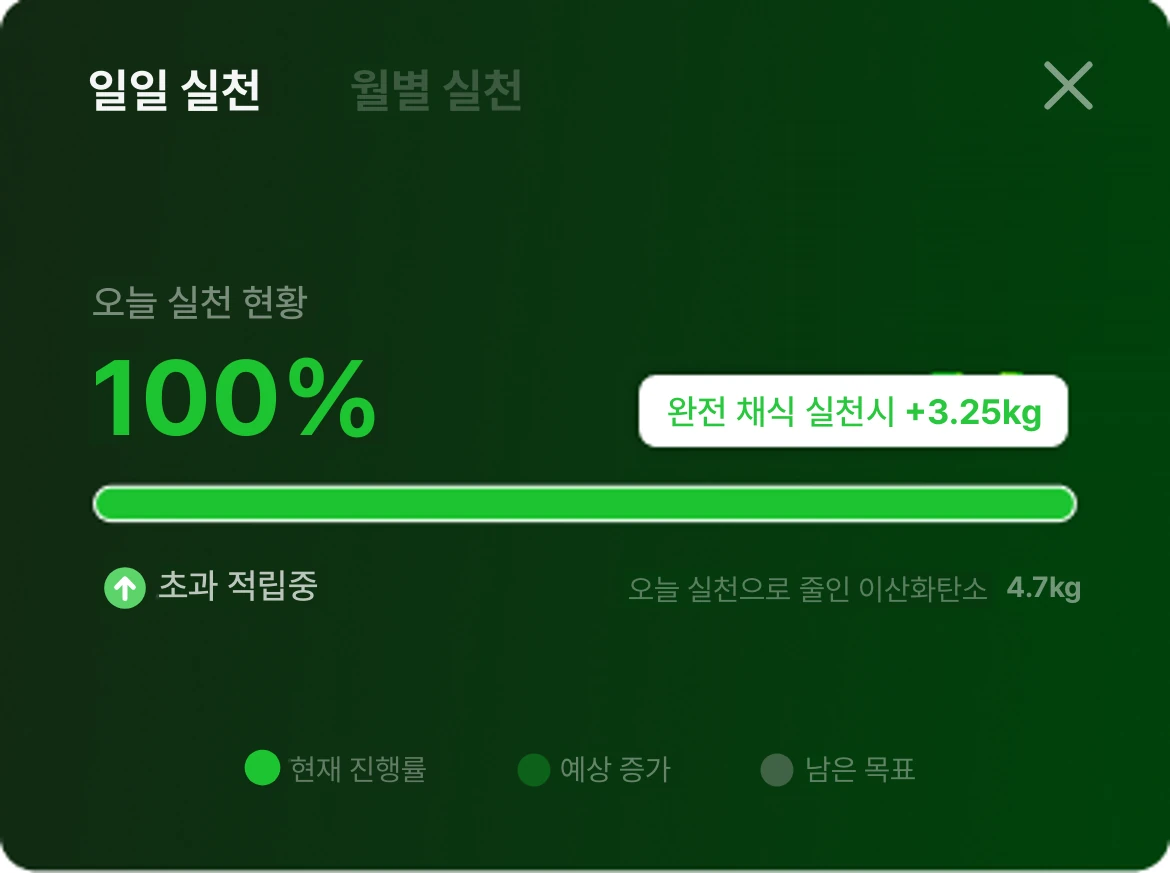
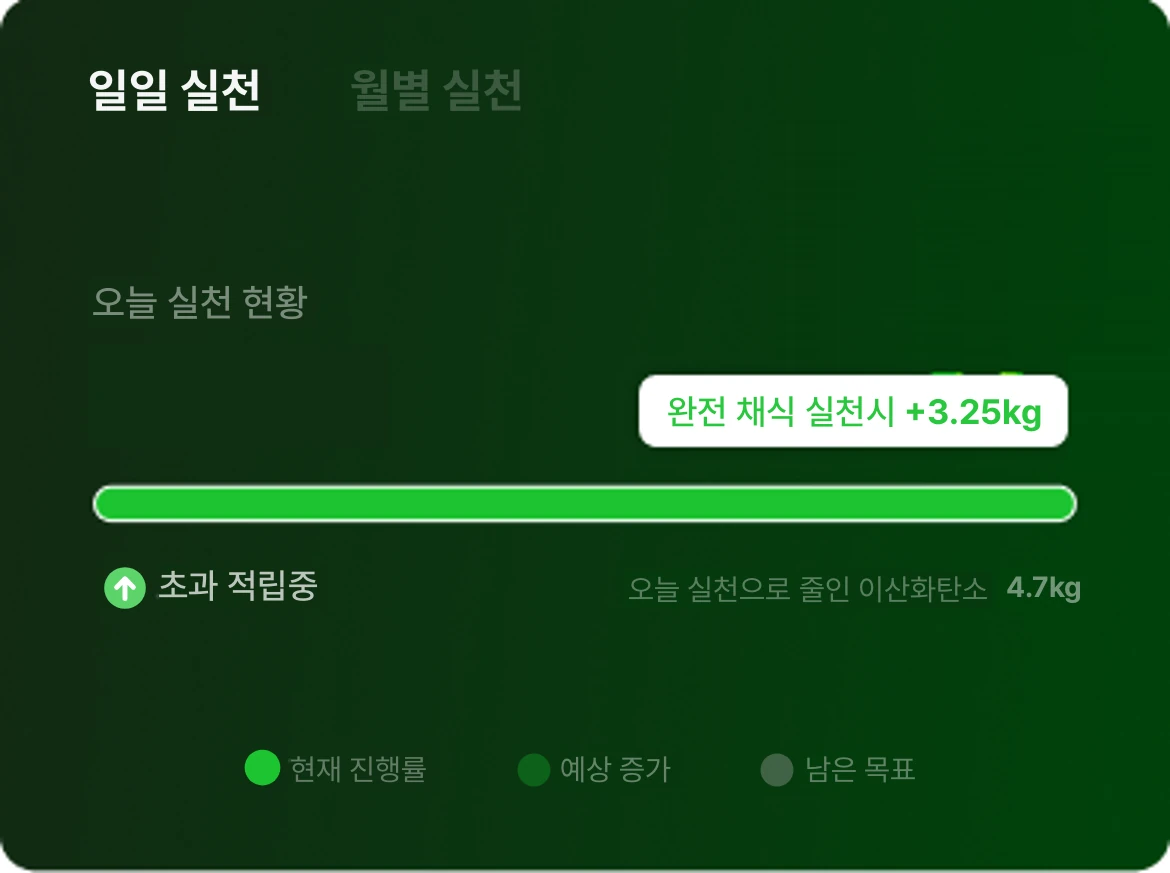
DFGDGF

Changed region(s): [[0.0615, 0.4021, 0.3385, 0.4948], [0.8923, 0.0619, 0.9538, 0.1237]]

diff --git a/js/app.js b/js/app.js
@@ -663,7 +663,7 @@ function renderSheet(){
      if(qrActivities.has(sheet.activity)){const qrv=img('assets/ui/qr_button_exact.png','daily-route-qr-visual');body.append(qrv);routeQrVisualRef=qrv};
      content.append(body);requestAnimationFrame(()=>addDailyFun(body,sheet.activity))
    }else{
-     content.append(img('assets/sheets/monthly_clean.png','sheet-img'));
+     content.append(img('assets/sheets/monthly_clean.png','sheet-img'));hqMonthly(content);
      buildMonthlyRings()
    }
  }
@@ -1872,9 +1872,9 @@ document.addEventListener('pointerdown',e=>{
  const canBack=()=>history.length>0&&!atStart()&&view.type!=='home'&&!overlay.querySelector('.modal-dim,.x-compose,.x-done,.guide');
  document.addEventListener('pointerdown',e=>{const r=W0();edge=(e.clientX-r.left)<24*(r.width/390)&&canBack();sx=e.clientX;sy=e.clientY;drag=false;dx=0},true);
  document.addEventListener('pointermove',e=>{if(!edge)return;const s=W0().width/390;const mx=(e.clientX-sx)/s,my=Math.abs(e.clientY-sy)/s;
-   if(!drag){if(mx>8&&mx>my*1.3){drag=true;stage.classList.add('x-swiping')}else if(my>12){edge=false;return}else return}
+   if(!drag){if(mx>8&&mx>my*1.3){drag=true;stage.classList.add('x-swiping');phone.classList.add('x-swipe-bg')}else if(my>12){edge=false;return}else return}
    dx=Math.max(0,mx);stage.style.transform=`translateX(${dx}px)`;phone.style.setProperty('--swipe',Math.min(1,dx/390));e.preventDefault()},{capture:true,passive:false});
- const end=e=>{if(!edge)return;edge=false;if(!drag)return;drag=false;stage.classList.remove('x-swiping');
+ const end=e=>{if(!edge)return;edge=false;if(!drag)return;drag=false;stage.classList.remove('x-swiping');setTimeout(()=>phone.classList.remove('x-swipe-bg'),380);
    const go=dx>110;
    if(go){buzz(6);window.__swipeFrom=dx;stage.style.transform='';back();window.__swipeFrom=0}
    else{stage.style.transition='transform .22s cubic-bezier(.2,.8,.2,1)';stage.style.transform='';setTimeout(()=>stage.style.transition='',240)}};
@@ -1992,6 +1992,9 @@ ICON.close2='<path d="M6 6l12 12M18 6 6 18" stroke="currentColor" stroke-width="
  _r5();
  if(!cover)return;
  phone.insertBefore(cover,stage.nextSibling);
+ /* the old screen sits above the overlay too, so bubbles/guides of the new screen are revealed together with it;
+    the tab bar strip is left uncovered because the persistent tab bar animates on its own */
+ if(cover.querySelector('.unified-nav-hit-layer')&&stage.querySelector('.unified-nav-hit-layer'))cover.style.clipPath='inset(0 0 80px 0)';
  const pending=[...stage.querySelectorAll('img')].filter(i=>!i.complete||!i.naturalWidth);
  const ready=Promise.race([Promise.all(pending.map(i=>i.decode?i.decode().catch(()=>{}):Promise.resolve())),new Promise(r=>setTimeout(r,450))]);
  ready.then(()=>{cover.classList.add('x-cover-out');setTimeout(()=>cover.remove(),180)});
@@ -2135,6 +2138,45 @@ openTeamChatOverlay=function(){
  const fin=e=>{if(e.pointerId!==sid)return;sid=null;const dx=(sl-s0)/(window.__sx||1);if(dx>90)closeTeamChatOverlay(page);else page.style.transform='translate3d(0,0,0)'};
  page.addEventListener('pointerup',fin);page.addEventListener('pointercancel',fin);
 };
+
+/* ===================== practice sheet header interactions ===================== */
+{const _hd=hqDaily;hqDaily=function(body,key){_hd(body,key);
+ /* live percentage that counts up with the progress bar */
+ const pct=el('div','x-dh-pct');pct.innerHTML='<b>0</b><i>%</i>';Object.assign(pct.style,{left:(24/390*100)+'%',top:(108/687*100)+'%'});
+ const bar=el('div','x-dh-bar');Object.assign(bar.style,{left:(30/390*100)+'%',top:(160.5/687*100)+'%',width:(330/390*100)+'%',height:(15/687*100)+'%'});bar.innerHTML='<i></i>';
+ body.append(pct,bar);
+ const num=pct.querySelector('b'),fill=bar.querySelector('i');const target=100,dur=reduceMotion?0:950,t0=performance.now();
+ requestAnimationFrame(()=>fill.style.width=target+'%');
+ const step=now=>{const k=dur?Math.min(1,(now-t0)/dur):1;const e=1-Math.pow(1-k,3);num.textContent=Math.round(target*e);if(k<1)requestAnimationFrame(step);else pct.classList.add('done')};requestAnimationFrame(step);
+ /* mascot: gentle float, hop when tapped; chip pops in */
+ const m=body.querySelector('.hq-daily-mascot');if(m){m.classList.add('x-float');const hit=el('button','x-dh-mhit');hit.type='button';hit.setAttribute('aria-label','캐릭터');
+   const b=m.style;Object.assign(hit.style,{left:b.left,top:b.top,width:b.width,height:b.height});hit.addEventListener('click',e=>{e.stopPropagation();m.classList.remove('x-hop');void m.offsetWidth;m.classList.add('x-hop');buzz(8)});body.append(hit)}
+ body.querySelector('.hq-chipcopy')?.classList.add('x-chip-pop');
+}}
+function hqMonthly(content){
+ const cards=[['전기세','6,000원 절약 목표를 달성했어요.','매주 월요일 +0.86kg이 자동으로 지급돼요.',true],['가스비','5,000원 절약 목표를 달성했어요.','매주 월요일 +1.12kg이 자동으로 지급돼요.',true],['수도세','3,000원 절약 목표에 조금 못 미쳤어요.','이번 달에 다시 도전해 보세요. 달성하면 +0.28kg이 지급돼요.',false]];
+ const X=[23,139,255],Wd=113,Y=105,Hh=114;
+ const sweep=el('div','x-mo-sweep');Object.assign(sweep.style,{left:(22/390*100)+'%',top:(Y/688*100)+'%',width:(346/390*100)+'%',height:(Hh/688*100)+'%'});content.append(sweep);
+ cards.forEach(([t,a,b,ok],i)=>{
+   const h=el('button','x-mo-card');h.type='button';h.setAttribute('aria-label',t+' 자세히');Object.assign(h.style,{left:(X[i]/390*100)+'%',top:(Y/688*100)+'%',width:(Wd/390*100)+'%',height:(Hh/688*100)+'%'});
+   const ring=el('span','x-mo-stamp'+(ok?'':' fail'));ring.style.animationDelay=(0.35+i*0.12)+'s';h.append(ring);
+   h.addEventListener('click',()=>{buzz(8);infoBox(`지난달 ${t}`,`<p><b>${a}</b></p><p>${b}</p>`,'확인')});content.append(h)});
+ const glow=el('div','x-mo-glow');Object.assign(glow.style,{left:(78/390*100)+'%',top:(238/688*100)+'%',width:(234/390*100)+'%',height:(30/688*100)+'%'});content.append(glow);
+}
+
+/* overlay extras (e.g. the home carbon bubble) wait until the new screen's images are ready, so everything appears together */
+{const _r9=render;render=function(){_r9();
+ const pending=[...stage.querySelectorAll('img')].filter(i=>!i.complete||!i.naturalWidth);
+ if(!pending.length){overlay.classList.remove('x-hold');return}
+ overlay.classList.add('x-hold');
+ Promise.race([Promise.all(pending.map(i=>i.decode?i.decode().catch(()=>{}):Promise.resolve())),new Promise(r=>setTimeout(r,500))]).then(()=>requestAnimationFrame(()=>overlay.classList.remove('x-hold')));
+}}
+
+/* practice sheet: close X is live and only shown while the sheet is open */
+{const upd=()=>{stage.querySelectorAll('.bottom-sheet').forEach(s=>{
+   let x=s.querySelector(':scope>.x-sheet-x');if(!x){x=el('div','x-sheet-x');x.innerHTML='<svg viewBox="0 0 24 24"><path d="M5.5 5.5l13 13M18.5 5.5l-13 13" stroke="currentColor" stroke-width="2" stroke-linecap="round" fill="none"/></svg>';s.appendChild(x)}
+   const top=parseFloat(s.style.top)/100*844;const open=top<690;if(x.classList.contains('show')!==open)x.classList.toggle('show',open)})};
+ new MutationObserver(upd).observe(stage,{subtree:true,childList:true,attributes:true,attributeFilter:['style']});}
 
 render();
 })();

diff --git a/sw.js b/sw.js
@@ -1,4 +1,4 @@
-const CACHE='greensweet-v68-35';
+const CACHE='greensweet-v68-41';
 const PRECACHE=["./", "index.html", "css/style.css", "js/app.js", "manifest.webmanifest", "assets/fonts/PretendardSubset.woff2", "icons/icon-192.png", "icons/icon-512.png", "icons/icon-180.png", "icons/favicon.png", "assets/carbon17/base.webp", "assets/carbon21/mascot_297.webp", "assets/carbon21/mascot_298.webp", "assets/carbon21/mascot_299.webp", "assets/carbon21/mascot_300.webp", "assets/carbon21/mascot_301.webp", "assets/carbon21/mascot_319.webp", "assets/coupon_logos/amorepacific.png", "assets/coupon_logos/aromatica.png", "assets/coupon_logos/ikea.png", "assets/coupon_logos/innisfree.png", "assets/coupon_logos/lush.png", "assets/coupon_logos/muji.png", "assets/coupon_logos/musinsa.png", "assets/coupon_logos/oliveyoung.png", "assets/coupon_logos/patagonia.png", "assets/coupon_logos/starbucks.webp", "assets/coupon_logos/tamburins.png", "assets/coupon_logos/thebodyshop.png", "assets/daily_cards/bike_normal.png", "assets/daily_cards/bike_selected.png", "assets/daily_cards/bus_normal.png", "assets/daily_cards/bus_selected.png", "assets/daily_cards/fullveg_normal.png", "assets/daily_cards/fullveg_selected.png", "assets/daily_cards/partial_normal.png", "assets/daily_cards/partial_selected.png", "assets/daily_cards/tumbler_normal.png", "assets/daily_cards/tumbler_selected.png", "assets/daily_cards/walk_normal.png", "assets/daily_cards/walk_selected.png", "assets/daily_headers/bike.webp", "assets/daily_headers/bus.webp", "assets/daily_headers/fullveg.webp", "assets/daily_headers/partial.webp", "assets/daily_headers/tumbler.webp", "assets/daily_headers/walk.webp", "assets/esg/base_all.webp", "assets/esg/base_mine.webp", "assets/esg/base_progress.webp", "assets/fixed/coupon_all_base.png", "assets/fixed/coupon_mine_base.png", "assets/fixed/points_base.webp", "assets/hq/daily_bike.webp", "assets/hq/daily_bus.webp", "assets/hq/daily_fullveg.webp", "assets/hq/daily_partial.webp", "assets/hq/daily_tumbler.webp", "assets/hq/daily_walk.webp", "assets/hq/esg_done_text.png", "assets/hq/esg_mascot.webp", "assets/hq/idea.webp", "assets/hq/team_mascot.webp", "assets/onboarding/bottom.png", "assets/onboarding/content_289.webp", "assets/onboarding/content_290.webp", "assets/onboarding/content_291.webp", "assets/onboarding/content_292.webp", "assets/onboarding/content_293.webp", "assets/onboarding/cta_289.png", "assets/onboarding/cta_290.png", "assets/onboarding/cta_291.png", "assets/onboarding/cta_292.png", "assets/onboarding/cta_293.png", "assets/onboarding/progress_289.png", "assets/onboarding/progress_290.png", "assets/onboarding/progress_291.png", "assets/onboarding/progress_292.png", "assets/onboarding/progress_293.png", "assets/onboarding/top.png", "assets/screens/287.webp", "assets/screens/288.webp", "assets/screens/289.webp", "assets/screens/290.webp", "assets/screens/291.webp", "assets/screens/292.webp", "assets/screens/293.webp", "assets/screens/297.webp", "assets/screens/298.webp", "assets/screens/299.webp", "assets/screens/300.webp", "assets/screens/301.webp", "assets/screens/303.webp", "assets/screens/304.webp", "assets/screens/305.webp", "assets/screens/306.webp", "assets/screens/307.png", "assets/screens/308.webp", "assets/screens/310.webp", "assets/screens/311.webp", "assets/screens/312.webp", "assets/screens/313.webp", "assets/screens/314.webp", "assets/screens/316.webp", "assets/screens/316_home_clean.webp", "assets/screens/317.webp", "assets/screens/318.webp", "assets/screens/319.webp", "assets/screens/320.webp", "assets/screens/321.webp", "assets/screens/322.webp", "assets/screens/331.webp", "assets/screens/333.webp", "assets/screens/334.webp", "assets/screens/335.webp", "assets/screens/336.webp", "assets/screens/337.webp", "assets/screens/338.webp", "assets/screens/339.webp", "assets/screens/340.webp", "assets/screens/340_team_clean.webp", "assets/screens/341.png", "assets/screens/341_chat_clean.png", "assets/screens/342.png", "assets/screens/343.webp", "assets/screens/344.webp", "assets/screens/345.webp", "assets/screens/345_clean.webp", "assets/screens/346.webp", "assets/screens/348.png", "assets/screens/348_chat_clean.webp", "assets/screens/349.webp", "assets/screens/350.png", "assets/screens/351.webp", "assets/screens/352.webp", "assets/scroll/points_clean.webp", "assets/scroll/team_members_5.jpg", "assets/sheets/monthly_clean.webp", "assets/splash/288_base_clean.png", "assets/splash/288_hero_new.webp", "assets/splash/288_logo_original.webp", "assets/team/av_0.png", "assets/team/av_1.png", "assets/team/av_2.png", "assets/team/av_3.png", "assets/team/av_4.png", "assets/team/bot_av.png", "assets/team/header-icon.png", "assets/team/mega.webp", "assets/team/my_avatar.png", "assets/team/point_icon.webp", "assets/team/statusbar.png", "assets/team/thumb.webp", "assets/ui/carbon_bubble_exact.png", "assets/ui/guide_bubble.png", "assets/ui/guide_bubble_team.png", "assets/ui/guide_close.png", "assets/ui/guide_home_content.webp", "assets/ui/guide_team_content.webp", "assets/ui/home_mascot_exact.webp", "assets/ui/home_nav_clean.png", "assets/ui/nav_sprout_coupon.png", "assets/ui/nav_sprout_esg.png", "assets/ui/nav_sprout_home.png", "assets/ui/nav_sprout_team.png", "assets/ui/navs/coupon.png", "assets/ui/navs/esg.png", "assets/ui/navs/home.png", "assets/ui/navs/team.png", "assets/ui/qr_button_exact.png", "assets/ui/touch_hand_fixed.png", "assets/ui/touch_text_fixed.png"];
 self.addEventListener('install',e=>{e.waitUntil(caches.open(CACHE).then(c=>c.addAll(PRECACHE)).then(()=>self.skipWaiting()))});
 self.addEventListener('activate',e=>{e.waitUntil(caches.keys().then(ks=>Promise.all(ks.filter(k=>k!==CACHE).map(k=>caches.delete(k)))).then(()=>self.clients.claim()))});

diff --git a/css/style.css b/css/style.css
@@ -3706,7 +3706,8 @@ html.app-fill body::after,.x-strip-dim{display:none!important}
 @keyframes popOut{from{transform:translateX(var(--from,0px))}to{transform:translateX(100%)}}
 @keyframes popUnder{from{transform:translateX(var(--under,-28%))}to{transform:none}}
 .stage.x-swiping{box-shadow:-10px 0 28px rgba(0,0,0,.14);z-index:5}
-#phone{background:#eceeec}
+#phone{background:#fff}
+#phone.x-swipe-bg{background:#eceeec}
 html,body{overscroll-behavior-x:none}
 /* onboarding '월별 실천 연동' step: visible skip */
 .skip-hit{top:58px!important;right:10px!important;left:auto!important;width:auto!important;height:40px!important;padding:0 12px!important;border:0!important;background:transparent!important;border-radius:999px!important;z-index:20!important;display:flex!important;align-items:center;animation:skipIn .25s .1s ease both}
@@ -3788,3 +3789,39 @@ html,body,body *:not(.bc-num){font-family:var(--gs-font)!important}
 .x-tc-send:not(:disabled):active{transform:scale(.92)}
 .team-chat-overlay .x-tc-field{min-width:0!important;max-width:none!important}
 .x-tc-input{width:100%;box-sizing:border-box}
+
+/* ===== practice sheet header interactions ===== */
+.x-dh-pct{position:absolute;z-index:3;display:flex;align-items:baseline;color:#22c63d;font-family:var(--gs-font);pointer-events:none;letter-spacing:-.02em}
+.x-dh-pct b{font-size:50px;line-height:50px;font-weight:800;font-variant-numeric:tabular-nums}
+.x-dh-pct i{font-style:normal;font-size:46px;line-height:50px;font-weight:800;margin-left:1px}
+.x-dh-pct.done{animation:pctPop .45s cubic-bezier(.2,1.6,.4,1)}
+@keyframes pctPop{40%{transform:scale(1.07)}100%{transform:none}}
+.x-dh-bar{position:absolute;z-index:3;border-radius:999px;background:#10371a;box-shadow:inset 0 0 0 1.5px rgba(210,245,215,.55);overflow:hidden;pointer-events:none}
+.x-dh-bar i{position:absolute;left:2px;top:2px;bottom:2px;width:0;max-width:calc(100% - 4px);border-radius:999px;background:linear-gradient(90deg,#16b733,#2bd84a);transition:width .95s cubic-bezier(.25,.8,.25,1);overflow:hidden}
+.x-dh-bar i::after{content:'';position:absolute;top:0;bottom:0;width:40%;left:-40%;background:linear-gradient(90deg,transparent,rgba(255,255,255,.55),transparent);animation:barShine 1.1s .95s ease-out forwards}
+@keyframes barShine{to{left:110%}}
+.hq-daily-mascot.x-float{animation:mFloat 3.2s ease-in-out infinite;transform-origin:50% 90%}
+@keyframes mFloat{0%,100%{transform:translateY(0)}50%{transform:translateY(-4px)}}
+.hq-daily-mascot.x-hop{animation:mHop .6s cubic-bezier(.3,1.4,.4,1),mFloat 3.2s .6s ease-in-out infinite}
+@keyframes mHop{0%{transform:none}30%{transform:translateY(-14px) rotate(-6deg) scale(1.04)}60%{transform:translateY(0) scale(1.06,.94)}100%{transform:none}}
+.x-dh-mhit{position:absolute;z-index:4;border:0;background:transparent;padding:0;cursor:pointer}
+.hq-chipcopy.x-chip-pop{animation:chipPop .5s .25s cubic-bezier(.2,1.4,.4,1) both}
+@keyframes chipPop{0%{opacity:0;transform:translateY(6px) scale(.96)}100%{opacity:1;transform:none}}
+/* monthly */
+.x-mo-sweep{position:absolute;z-index:3;pointer-events:none;border-radius:12px;overflow:hidden}
+.x-mo-sweep::after{content:'';position:absolute;top:0;bottom:0;width:35%;left:-35%;background:linear-gradient(100deg,transparent,rgba(255,255,255,.14),transparent);animation:barShine 1.2s .2s ease-out forwards}
+.x-mo-card{position:absolute;z-index:4;border:0;background:transparent;border-radius:12px;padding:0;cursor:pointer;transition:background .15s,transform .15s}
+.x-mo-card:active{background:rgba(255,255,255,.08);transform:scale(.97)}
+.x-mo-stamp{position:absolute;left:50%;top:78%;width:40px;height:26px;margin:-13px 0 0 -20px;border-radius:999px;box-shadow:0 0 0 2px rgba(43,216,74,.7);opacity:0;animation:stamp .7s cubic-bezier(.2,.8,.2,1) both}
+.x-mo-stamp.fail{box-shadow:0 0 0 2px rgba(255,120,110,.7)}
+@keyframes stamp{0%{opacity:0;transform:scale(.6)}35%{opacity:1}100%{opacity:0;transform:scale(1.6)}}
+.x-mo-glow{position:absolute;z-index:3;pointer-events:none;border-radius:999px;animation:moGlow 3s 1s ease-in-out infinite}
+@keyframes moGlow{0%,100%{box-shadow:none;background:transparent}50%{background:rgba(43,216,74,.07);box-shadow:0 0 18px rgba(43,216,74,.25)}}
+@media (prefers-reduced-motion:reduce){.hq-daily-mascot.x-float,.x-mo-glow,.x-mo-stamp,.x-dh-bar i::after,.x-mo-sweep::after{animation:none!important}}
+#overlay{transition:opacity .2s ease}
+#overlay.x-hold{opacity:0;transition:none}
+.x-sheet-x{position:absolute;left:343px;top:15px;width:26px;height:26px;color:rgba(255,255,255,.72);z-index:6;pointer-events:none;opacity:0;transform:scale(.7) rotate(-45deg);transition:opacity .2s ease,transform .3s cubic-bezier(.2,1.2,.3,1)}
+.x-sheet-x.show{opacity:1;transform:none}
+.x-sheet-x svg{width:100%;height:100%;display:block}
+.x-cover{z-index:85!important}
+.team-live-bonus-value{animation:none!important;text-shadow:none!important}
